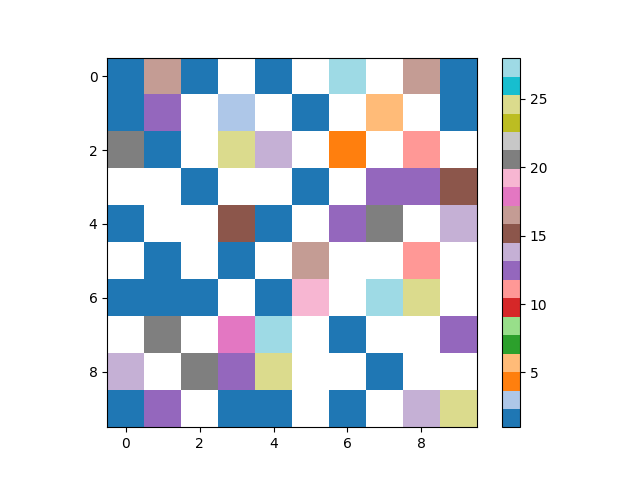
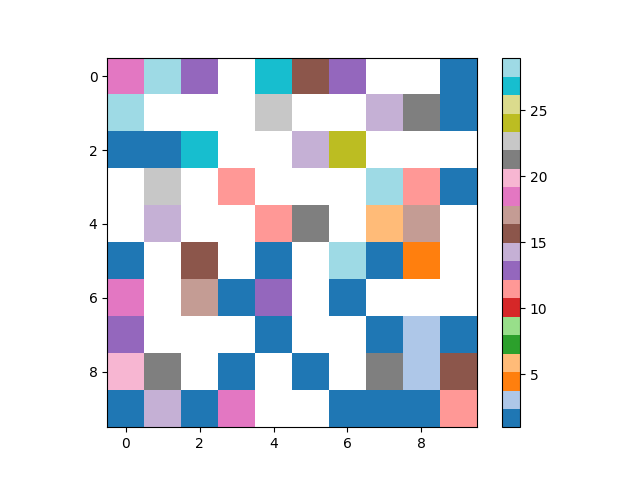
43

diff --git a/lab2/_4_3.py b/lab2/_4_3.py
@@ -41,19 +41,21 @@ if __name__ == "__main__":
 
     def neighbor_size(ep):
         if ep < (num_epochs * 1/3):
-            return 3
+            return 4
         if ep < (num_epochs * 2/3):
-            return 1
-        return 0
+            return 2
+        return 1
 
-    neighborhoodmap = np.array([[[a,b] for b in range(10)] for a in range(10) ])
+    neighborhoodmap = np.array([[[a,b] for b in range(10)] for a in range(10) ]).reshape(100,2)
 
     def neigh_func(center, neighborhood):
-        center_v = neighborhoodmap.reshape(100,2)[center]
-        dist_mat = np.linalg.norm(neighborhoodmap - center_v, axis=2)
-        args = np.where(dist_mat <= neighborhood)
+        center_v = neighborhoodmap[center]
+        # dist_mat = np.linalg.norm(neighborhoodmap - center_v, axis=2)
+        # args = np.where(dist_mat <= neighborhood)
+        # print (center)
+        out = rbf_kernel(neighborhoodmap, center_v, gamma=1/((neighborhood)**2))
 
-        return args[0] * 10 + args[1]
+        return out
 
     som = SOM(nodes_shape[0] * nodes_shape[1], neigh_func, neighbor_size)
     som.train(votes, num_epochs)
